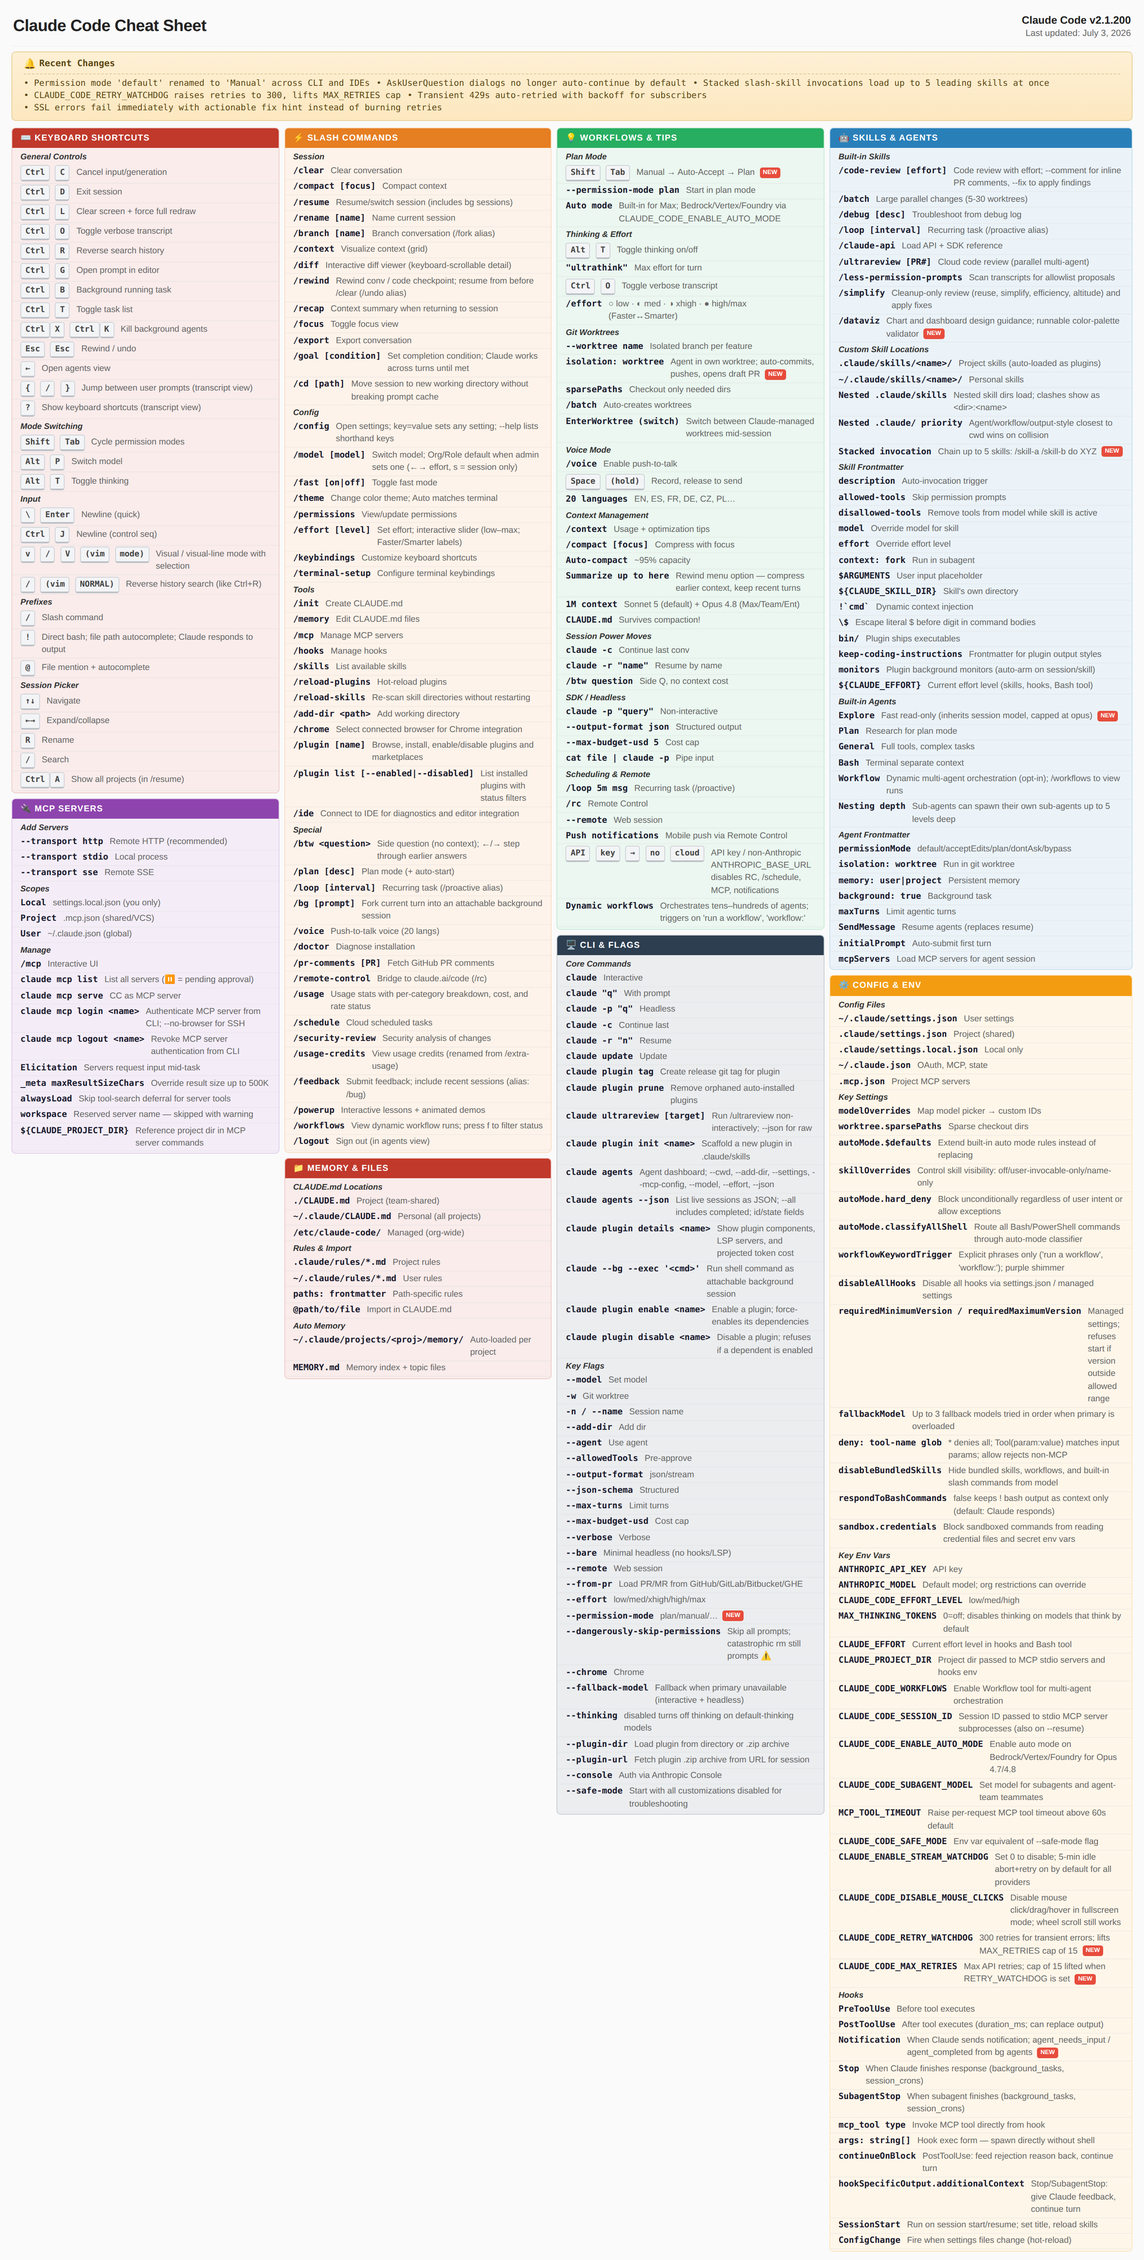
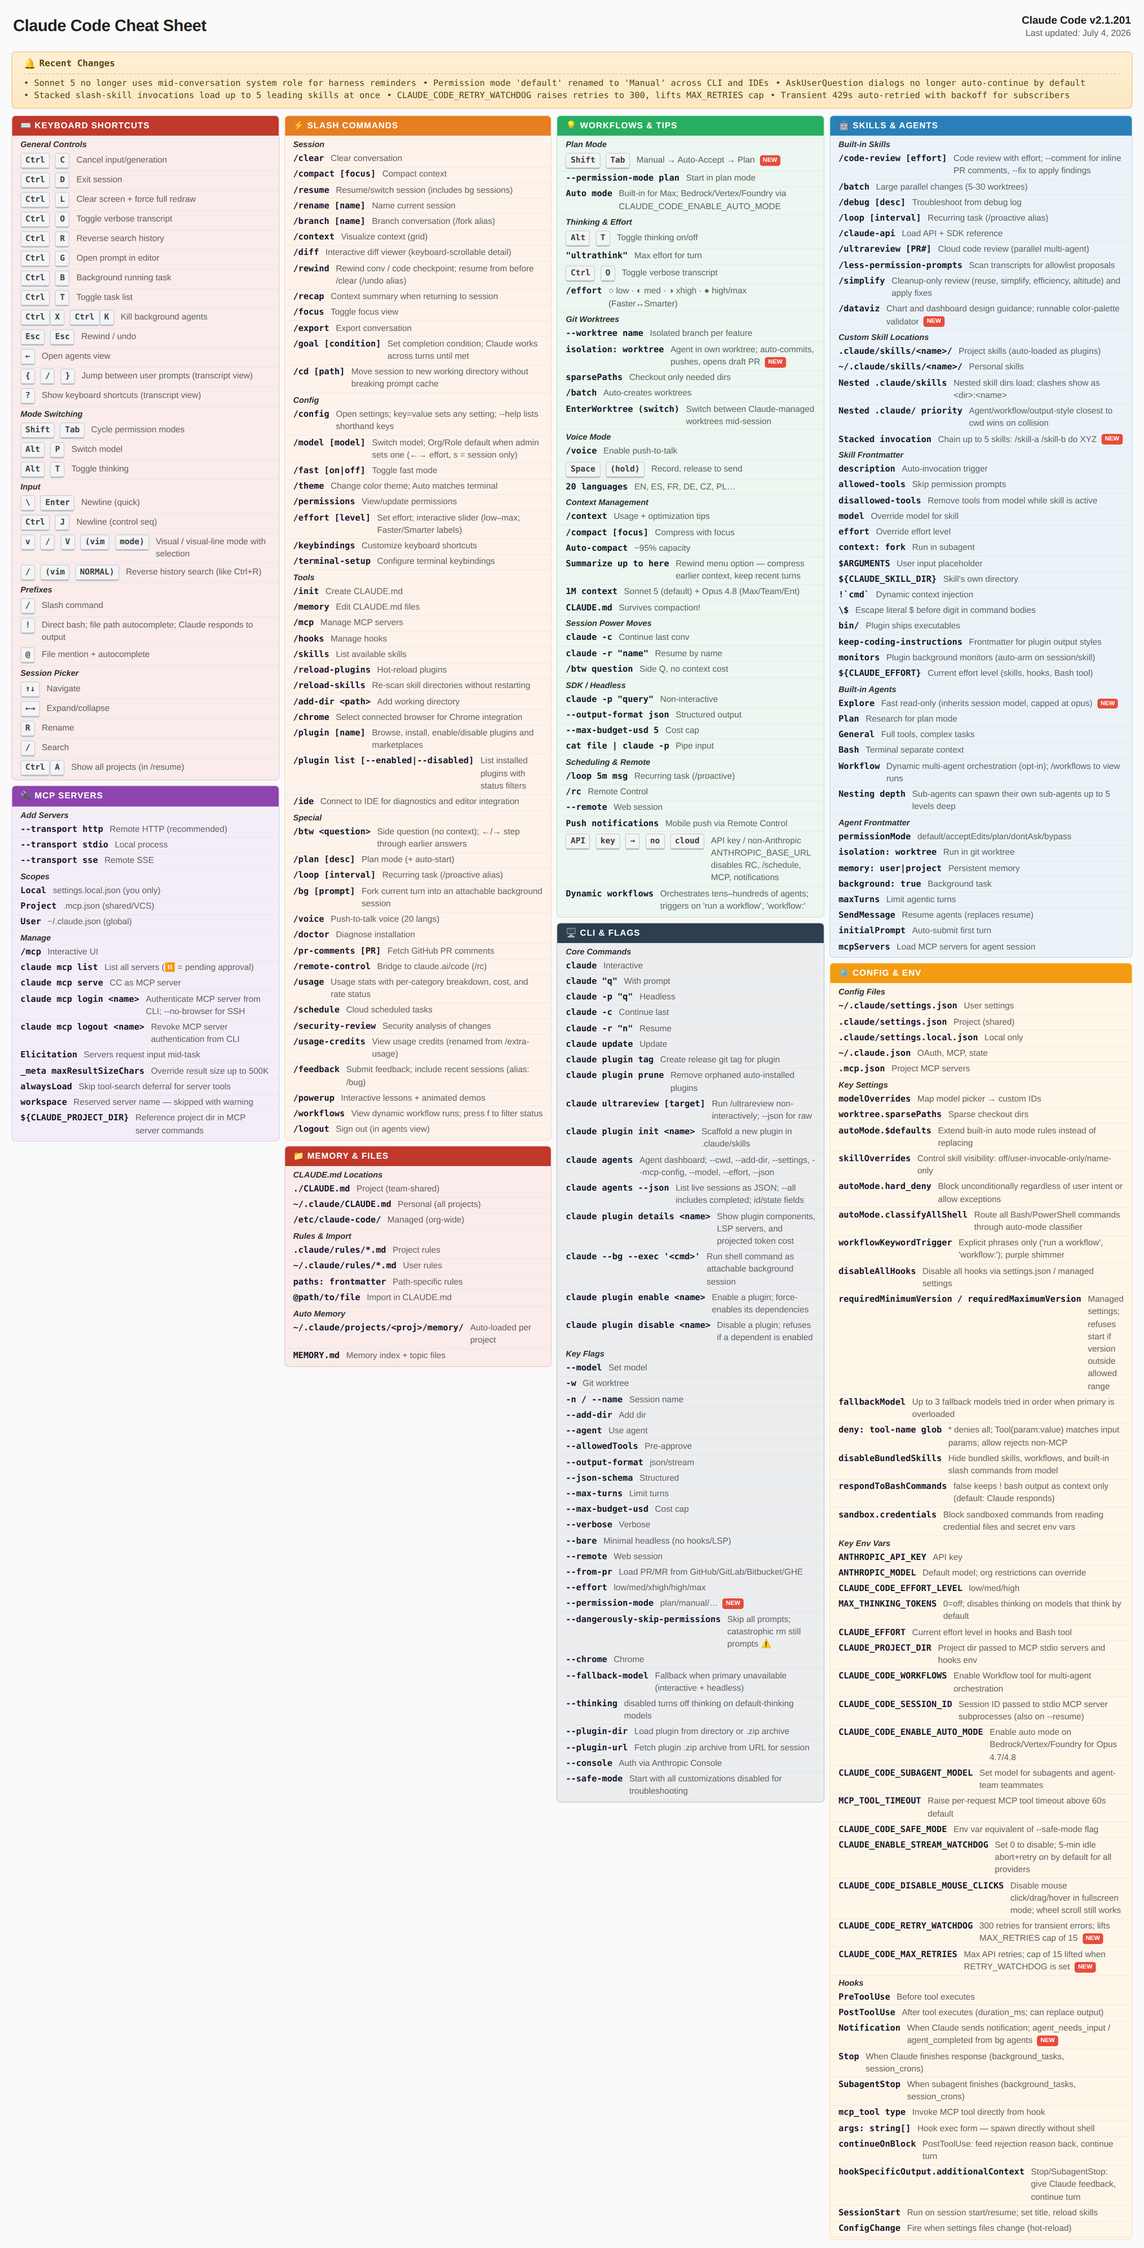
cheatsheet: update to v2.1.201

Changed region(s): [[0.0, 0.0311, 0.9943, 0.9945]]

diff --git a/docs/changelog.html b/docs/changelog.html
@@ -78,7 +78,25 @@ del { opacity: 0.5; text-decoration: line-through; }
 </p>
 
 
-    <details id="v2.1.200" open>
+    <details id="v2.1.201" open>
+      <summary>
+        <strong>v2.1.201</strong>
+        <span class="changelog-date">2026-07-04</span>
+        <span class="changelog-stats">
+          
+          
+          
+        </span>
+      </summary>
+      <div class="diff-body">
+        
+        
+        <div class="diff-item">No cheatsheet changes in this version</div>
+        <div class="raw-section"><div class="diff-label">Full changelog (1 entries):</div><div class="raw-entries"><div class="raw-entry">• Claude Sonnet 5 sessions no longer use the mid-conversation system role for harness reminders</div></div></div>
+      </div>
+    </details>
+
+    <details id="v2.1.200" >
       <summary>
         <strong>v2.1.200</strong>
         <span class="changelog-date">2026-07-03</span>
@@ -110,7 +128,7 @@ del { opacity: 0.5; text-decoration: line-through; }
         <div class="diff-label">Cheatsheet changes:</div>
         <div class="diff-item diff-add">+ <strong>Stacked invocation</strong> → Chain up to 5 skills: /skill-a /skill-b do XYZ <span class="diff-section">[skills-agents]</span></div><div class="diff-item diff-add">+ <strong>CLAUDE_CODE_RETRY_WATCHDOG</strong> → 300 retries for transient errors; lifts MAX_RETRIES cap of 15 <span class="diff-section">[config-env]</span></div><div class="diff-item diff-add">+ <strong>CLAUDE_CODE_MAX_RETRIES</strong> → Max API retries; cap of 15 lifted when RETRY_WATCHDOG is set <span class="diff-section">[config-env]</span></div><div class="diff-item diff-remove">- <strong>root SKILL.md</strong> <span class="diff-section">[skills-agents]</span></div><div class="diff-item diff-remove">- <strong>sandbox.allowAppleEvents</strong> <span class="diff-section">[config-env]</span></div><div class="diff-item diff-remove">- <strong>OTEL_LOG_ASSISTANT_RESPONSES</strong> <span class="diff-section">[config-env]</span></div>
         
-        <div class="raw-section"><div class="diff-label">Full changelog (24 entries):</div><div class="raw-entries"><div class="raw-entry">• Stacked slash-skill invocations like `/skill-a /skill-b do XYZ` now load all leading skills (up to 5), not just the first</div><div class="raw-entry">• Fixed SSL certificate errors (TLS-inspecting proxies, missing `NODE_EXTRA_CA_CERTS`, expired certs) burning retries before showing actionable guidance — they now fail immediately with the fix hint</div><div class="raw-entry">• Fixed streaming responses being discarded when the API emits a mid-stream overloaded/server error after partial output — the partial is now kept with an incomplete-response notice</div><div class="raw-entry">• Fixed subagents cut off by a rate limit or server error silently failing instead of returning their partial work to the parent</div><div class="raw-entry">• Fixed subagents reporting API errors (e.g. usage limit reached) as successful results — the error is now reported to the parent agent</div><div class="raw-entry">• Fixed the background-agent daemon on Linux killing itself and every running agent every ~50 seconds after an unclean shutdown left a corrupted worker record</div><div class="raw-entry">• Fixed background agents failing to cold-start over SSH on macOS with "Could not switch to audit session" (regression in 2.1.196)</div><div class="raw-entry">• Fixed `claude stop` being silently undone when it raced a background-agent respawn — the respawn now honors the stop</div><div class="raw-entry">• Fixed background job progress indicators stalling for minutes while the job ran long commands</div><div class="raw-entry">• Fixed background sessions on memory-starved machines showing a generic error — they now indicate low memory and suggest freeing resources</div><div class="raw-entry">• Fixed remote sessions briefly flapping between Working and Idle in the agent view when a background agent completes</div><div class="raw-entry">• Fixed idle subagents vanishing from the agent panel while other subagents were still working; surplus idle agents now collapse into an expandable summary row</div><div class="raw-entry">• Fixed typing `/model` or `/fast` while viewing a subagent silently opening the lead's model picker — a notice now explains the command applies to the lead</div><div class="raw-entry">• Fixed `SessionStart`, `Setup`, and `SubagentStart` hooks silently hiding stderr when exiting with code 2 — the error is now shown in the transcript</div><div class="raw-entry">• Fixed `claude --dangerously-skip-permissions daemon &lt;subcommand&gt;` being treated as a chat prompt instead of running the subcommand</div><div class="raw-entry">• Fixed `SendMessage` silently misrouting when a re-spawned agent reuses a previous agent's name — the tool now detects the mismatch and asks the caller to retarget</div><div class="raw-entry">• Fixed opening or resuming a session with no new messages needlessly growing the transcript file</div><div class="raw-entry">• Fixed backgrounding a session with `←` or `/background` dropping its `/color` from the agent view row</div><div class="raw-entry">• Fixed resetting a corrupted config file from the startup recovery dialog destroying it unrecoverably — it now backs up the file first</div><div class="raw-entry">• Fixed Claude in Chrome repeatedly opening the reconnect page when sessions run from different builds or config directories</div><div class="raw-entry">• Fixed plan mode not prompting for state-changing browser tool calls; read-only `browser_batch` calls are now correctly auto-allowed</div><div class="raw-entry">• Transient server rate-limit errors (429s unrelated to your usage limit) are now retried automatically with backoff for subscribers instead of failing the turn</div><div class="raw-entry">• `CLAUDE_CODE_RETRY_WATCHDOG` now raises the default retry count for non-capacity transient errors to 300 and lifts the cap of 15 on `CLAUDE_CODE_MAX_RETRIES`</div><div class="raw-entry">• `claude agents` session rows now show pull-request links as bare `#N` without the redundant "PR" label</div></div></div>
+        <div class="raw-section"><div class="diff-label">Full changelog (24 entries):</div><div class="raw-entries"><div class="raw-entry">• Stacked slash-skill invocations like `/skill-a /skill-b do XYZ` now load all leading skills (up to 5), not just the first</div><div class="raw-entry">• Fixed SSL certificate errors (TLS-inspecting proxies, missing `NODE_EXTRA_CA_CERTS`, expired certs) burning retries before showing actionable guidance — they now fail immediately with the fix hint</div><div class="raw-entry">• Fixed streaming responses being discarded when the API emits a mid-stream overloaded/server error after partial output — the partial is now kept with an incomplete-result notice</div><div class="raw-entry">• Fixed subagents cut off by a rate limit or server error silently failing instead of returning their partial work to the parent</div><div class="raw-entry">• Fixed subagents reporting API errors (e.g. usage limit reached) as successful results — the error is now reported to the parent agent</div><div class="raw-entry">• Fixed the background-agent daemon on Linux killing itself and every running agent every ~50 seconds after an unclean shutdown left a corrupted worker record</div><div class="raw-entry">• Fixed background agents failing to cold-start over SSH on macOS with "Could not switch to audit session" (regression in 2.1.196)</div><div class="raw-entry">• Fixed `claude stop` being silently undone when it raced a background-agent respawn — the respawn now honors the stop</div><div class="raw-entry">• Fixed background job progress indicators stalling for minutes while the job ran long commands</div><div class="raw-entry">• Fixed background sessions on memory-starved machines showing a generic error — they now indicate low memory and suggest freeing resources</div><div class="raw-entry">• Fixed remote sessions briefly flapping between Working and Idle in the agent view when a background agent completes</div><div class="raw-entry">• Fixed idle subagents vanishing from the agent panel while other subagents were still working; surplus idle agents now collapse into an expandable summary row</div><div class="raw-entry">• Fixed typing `/model` or `/fast` while viewing a subagent silently opening the lead's model picker — a notice now explains the command applies to the lead</div><div class="raw-entry">• Fixed `SessionStart`, `Setup`, and `SubagentStart` hooks silently hiding stderr when exiting with code 2 — the error is now shown in the transcript</div><div class="raw-entry">• Fixed `claude --dangerously-skip-permissions daemon &lt;subcommand&gt;` being treated as a chat prompt instead of running the subcommand</div><div class="raw-entry">• Fixed `SendMessage` silently misrouting when a re-spawned agent reuses a previous agent's name — the tool now detects the mismatch and asks the caller to retarget</div><div class="raw-entry">• Fixed opening or resuming a session with no new messages needlessly growing the transcript file</div><div class="raw-entry">• Fixed backgrounding a session with `←` or `/background` dropping its `/color` from the agent view row</div><div class="raw-entry">• Fixed resetting a corrupted config file from the startup recovery dialog destroying it unrecoverably — it now backs up the file first</div><div class="raw-entry">• Fixed Claude in Chrome repeatedly opening the reconnect page when sessions run from different builds or config directories</div><div class="raw-entry">• Fixed plan mode not prompting for state-changing browser tool calls; read-only `browser_batch` calls are now correctly auto-allowed</div><div class="raw-entry">• Transient server rate-limit errors (429s unrelated to your usage limit) are now retried automatically with backoff for subscribers instead of failing the turn</div><div class="raw-entry">• `CLAUDE_CODE_RETRY_WATCHDOG` now raises the default retry count for non-capacity transient errors to 300 and lifts the cap of 15 on `CLAUDE_CODE_MAX_RETRIES`</div><div class="raw-entry">• `claude agents` session rows now show pull-request links as bare `#N` without the redundant "PR" label</div></div></div>
       </div>
     </details>
 
@@ -379,42 +397,6 @@ del { opacity: 0.5; text-decoration: line-through; }
       <div class="diff-body">
         <div class="diff-label">Cheatsheet changes:</div>
         <div class="diff-item diff-add">+ <strong>Nesting depth</strong> → Sub-agents can spawn their own sub-agents up to 5 levels deep <span class="diff-section">[skills-agents]</span></div>
-        
-        
-      </div>
-    </details>
-
-    <details id="v2.1.169" >
-      <summary>
-        <strong>v2.1.169</strong>
-        <span class="changelog-date">2026-06-08</span>
-        <span class="changelog-stats">
-          <span class="stat-add">+6</span>
-          <span class="stat-update">~1</span>
-          <span class="stat-remove">-4</span>
-        </span>
-      </summary>
-      <div class="diff-body">
-        <div class="diff-label">Cheatsheet changes:</div>
-        <div class="diff-item diff-add">+ <strong>--safe-mode</strong> → Start with all customizations disabled (CLAUDE.md, plugins, skills, hooks, MCP) <span class="diff-section">[cli-flags]</span></div><div class="diff-item diff-add">+ <strong>CLAUDE_CODE_SAFE_MODE</strong> → Env var equivalent of --safe-mode flag <span class="diff-section">[config-env]</span></div><div class="diff-item diff-add">+ <strong>/cd [path]</strong> → Move session to new working directory without breaking prompt cache <span class="diff-section">[slash-commands]</span></div><div class="diff-item diff-add">+ <strong>disableBundledSkills</strong> → Hide bundled skills, workflows, and built-in slash commands from model <span class="diff-section">[config-env]</span></div><div class="diff-item diff-add">+ <strong>CLAUDE_CODE_DISABLE_BUNDLED_SKILLS</strong> → Env var equivalent of disableBundledSkills setting <span class="diff-section">[config-env]</span></div><div class="diff-item diff-add">+ <strong>API_FORCE_IDLE_TIMEOUT</strong> → Opt out of default 5min idle timeout on Vertex/Foundry (set to 0) <span class="diff-section">[config-env]</span></div><div class="diff-item diff-update">~ <strong>claude agents --json</strong>: <del>List live sessions as JSON; includes waitingFor for blocked sessions</del> → List live sessions as JSON; --all includes completed; id/state fields <span class="diff-section">[cli-flags]</span></div><div class="diff-item diff-remove">- <strong>MessageDisplay</strong> <span class="diff-section">[config-env]</span></div><div class="diff-item diff-remove">- <strong>reloadSkills</strong> <span class="diff-section">[config-env]</span></div><div class="diff-item diff-remove">- <strong>sessionTitle</strong> <span class="diff-section">[config-env]</span></div><div class="diff-item diff-remove">- <strong>WorktreeCreate</strong> <span class="diff-section">[config-env]</span></div>
-        
-        
-      </div>
-    </details>
-
-    <details id="v2.1.166" >
-      <summary>
-        <strong>v2.1.166</strong>
-        <span class="changelog-date">2026-06-06</span>
-        <span class="changelog-stats">
-          <span class="stat-add">+3</span>
-          <span class="stat-update">~2</span>
-          <span class="stat-remove">-2</span>
-        </span>
-      </summary>
-      <div class="diff-body">
-        <div class="diff-label">Cheatsheet changes:</div>
-        <div class="diff-item diff-add">+ <strong>fallbackModel</strong> → Up to 3 fallback models tried in order when primary is overloaded <span class="diff-section">[config-env]</span></div><div class="diff-item diff-add">+ <strong>deny: tool-name glob</strong> → * denies all tools; allow rules reject non-MCP globs <span class="diff-section">[config-env]</span></div><div class="diff-item diff-add">+ <strong>--thinking</strong> → disabled turns off thinking on models that think by default <span class="diff-section">[cli-flags]</span></div><div class="diff-item diff-update">~ <strong>--fallback-model</strong>: <del>Switch to this model when primary is not found</del> → Fallback when primary unavailable (interactive + headless) <span class="diff-section">[cli-flags]</span></div><div class="diff-item diff-update">~ <strong>MAX_THINKING_TOKENS</strong>: <del>0=off</del> → 0=off; disables thinking on models that think by default <span class="diff-section">[config-env]</span></div><div class="diff-item diff-remove">- <strong>pluginSuggestionMarketplaces</strong> <span class="diff-section">[config-env]</span></div><div class="diff-item diff-remove">- <strong>allowAllClaudeAiMcps</strong> <span class="diff-section">[config-env]</span></div>
         
         
       </div>

diff --git a/docs/index.html b/docs/index.html
@@ -138,14 +138,14 @@ kbd{
 <header class="header">
   <h1>Claude Code Cheat Sheet</h1>
   <div class="header-right">
-    <span class="version-label">Claude Code v2.1.200</span>
-    <span class="date-label">Last updated: July 3, 2026</span>
+    <span class="version-label">Claude Code v2.1.201</span>
+    <span class="date-label">Last updated: July 4, 2026</span>
   </div>
 </header>
 
 <div class="recent-bar">
   <div class="rc-header"><span class="rc-icon">🔔</span> <span class="rc-title">Recent Changes</span></div>
-  <div class="rc-content"><span class="rc-item">• Permission mode 'default' renamed to 'Manual' across CLI and IDEs</span>  <span class="rc-item">• AskUserQuestion dialogs no longer auto-continue by default</span>  <span class="rc-item">• Stacked slash-skill invocations load up to 5 leading skills at once</span>  <span class="rc-item">• CLAUDE_CODE_RETRY_WATCHDOG raises retries to 300, lifts MAX_RETRIES cap</span>  <span class="rc-item">• Transient 429s auto-retried with backoff for subscribers</span>  <span class="rc-item">• SSL errors fail immediately with actionable fix hint instead of burning retries</span></div>
+  <div class="rc-content"><span class="rc-item">• Sonnet 5 no longer uses mid-conversation system role for harness reminders</span>  <span class="rc-item">• Permission mode 'default' renamed to 'Manual' across CLI and IDEs</span>  <span class="rc-item">• AskUserQuestion dialogs no longer auto-continue by default</span>  <span class="rc-item">• Stacked slash-skill invocations load up to 5 leading skills at once</span>  <span class="rc-item">• CLAUDE_CODE_RETRY_WATCHDOG raises retries to 300, lifts MAX_RETRIES cap</span>  <span class="rc-item">• Transient 429s auto-retried with backoff for subscribers</span></div>
   <button class="rc-close" onclick="this.parentElement.style.display='none'" aria-label="Close">×</button>
 </div>
 

diff --git a/CHEATSHEET.md b/CHEATSHEET.md
@@ -1,15 +1,15 @@
-# Claude Code Cheatsheet v2.1.200
+# Claude Code Cheatsheet v2.1.201
 
 > Auto-generated from [cheatsheet.json](cheatsheet.json) | [Visual version](cheatsheet.png) | [Interactive](https://defaultperson.github.io/cc-live-cheatsheet/)
 
 ## Recent Changes
 
+- Sonnet 5 no longer uses mid-conversation system role for harness reminders *(v2.1.201)*
 - Permission mode 'default' renamed to 'Manual' across CLI and IDEs *(v2.1.200)*
 - AskUserQuestion dialogs no longer auto-continue by default *(v2.1.200)*
 - Stacked slash-skill invocations load up to 5 leading skills at once *(v2.1.199)*
 - CLAUDE_CODE_RETRY_WATCHDOG raises retries to 300, lifts MAX_RETRIES cap *(v2.1.199)*
 - Transient 429s auto-retried with backoff for subscribers *(v2.1.199)*
-- SSL errors fail immediately with actionable fix hint instead of burning retries *(v2.1.199)*
 
 ---
 

diff --git a/README.md b/README.md
@@ -5,7 +5,7 @@
 > Self-updating visual reference for [Claude Code](https://claude.com/code).
 > Refreshed every 5 minutes from the official [CHANGELOG](https://github.com/anthropics/claude-code/blob/main/CHANGELOG.md).
 
-[![Version](https://img.shields.io/badge/Claude_Code-v2.1.200-blue)](https://github.com/anthropics/claude-code)
+[![Version](https://img.shields.io/badge/Claude_Code-v2.1.201-blue)](https://github.com/anthropics/claude-code)
 [![Items](https://img.shields.io/badge/items-264-green)](CHEATSHEET.md)
 [![RSS](https://img.shields.io/badge/RSS-feed-orange)](https://defaultperson.github.io/cc-live-cheatsheet/feed.xml)
 
